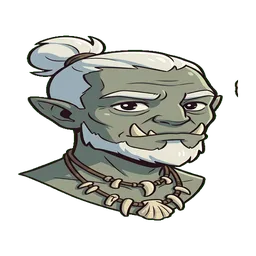
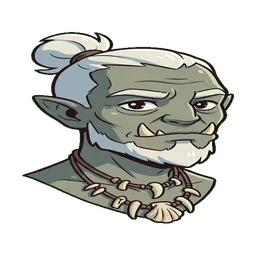
Strip a keying remnant the curtain pass left stranded (#273)
* Strip a keying remnant the curtain pass left stranded

Reported on the hero sheet: the elf wizard has an artifact. It was a 425px
wedge of greenscreen at the lower left, which reframing had scaled up into
plain view.

Two strippers, and one defeated the other. strip_edge_curtains removes only
the columns it recognises - on this source it took 5 of a 64-wide keying
strip - which stranded the remainder at x=5. strip_specks then declined it,
because its edge test was min(xs) <= 1 and the remnant was no longer touching
the border. Neither pass owned it.

The edge test now allows a small margin (3% of the shorter side) rather than
two pixels. It stays small on purpose: the elf wizard's floating rune, which
an earlier blunter rule deleted and which the prompt exists to produce, sits
at x=75 of 512 - five times outside it.

Verified on the token: the wedge is gone, the rune survives, and the piece
count drops from 5 to 4 with the remaining two being the rune itself.

* Guard the edge-remnant margin

* Pin both ends of the edge margin

---------

Changed region(s): [[0.0625, 0.125, 0.9375, 0.875]]

diff --git a/test/token-fill.test.ts b/test/token-fill.test.ts
@@ -312,3 +312,42 @@ describe('tokens share a baseline', () => {
     expect(css, 'the lift has no keyframes to run').toContain('@keyframes hover-bob');
   });
 });
+
+/**
+ * A keying remnant one stripper leaves and the other declines.
+ *
+ * Reported from the hero sheet: "elf wizard has an artifact" — a 425px wedge of
+ * greenscreen at the lower left, which reframing had scaled up into plain view.
+ *
+ * Two passes, and one defeated the other. `strip_edge_curtains` removes only the
+ * columns it recognises; on that source it took 5 of a 64-wide strip, stranding
+ * the remainder at x=5. `strip_specks` then declined it, because its edge test
+ * was `min(xs) <= 1` and the remnant no longer touched the border. Neither pass
+ * owned it, and nothing failed.
+ *
+ * The margin stays deliberately small. The elf wizard's floating rune — which an
+ * earlier, blunter rule deleted, and which its prompt exists to produce — sits at
+ * x=75 of 512, five times outside it.
+ */
+describe('edge remnants', () => {
+  const py = readFileSync(fileURLToPath(new URL('../art/process.py', import.meta.url)), 'utf8');
+
+  it('counts as an edge artefact when merely near the border', () => {
+    expect(py, 'back to a two-pixel test, which the curtain pass steps over')
+      .not.toMatch(/touches_edge = min\(xs\) <= 1 or/);
+    expect(py).toContain('EDGE_MARGIN');
+    expect(py).toMatch(/margin = max\(2, round\(EDGE_MARGIN \* min\(w, h\)\)\)/);
+  });
+
+  it('keeps that margin narrow enough to spare detached art', () => {
+    const m = py.match(/EDGE_MARGIN = ([\d.]+)/);
+    expect(m, 'no margin defined').toBeTruthy();
+    const v = Number(m![1]);
+    // Both ends matter. Zero collapses straight back to the two-pixel test the
+    // curtain pass steps over — a plant that set it to 0.0 passed an
+    // upper-bound-only check while restoring the exact bug.
+    expect(v, 'a zero margin is the old behaviour under a new name').toBeGreaterThan(0.005);
+    // ...and 3% of 512 is 15px, against the rune at 75.
+    expect(v, 'wide enough to start eating detached art').toBeLessThanOrEqual(0.05);
+  });
+});

diff --git a/web/src/token-fill.ts b/web/src/token-fill.ts
@@ -41,7 +41,7 @@ export const TOKEN_FILL: Record<string, number> = {
   'earth-elemental': 0.918,
   elephant: 0.922,
   'elf-archer': 0.848,
-  'elf-wizard': 0.789,
+  'elf-wizard': 0.77,
   'ettercap-snarecaller': 0.859,
   ettin: 0.898,
   fighter: 0.922,

diff --git a/art/process.py b/art/process.py
@@ -42,6 +42,17 @@ def load_monster_sizes():
     try:
         with open(MONSTERS_TS, "r", encoding="utf-8") as f:
             text = f.read()
+        # NOTE: this pattern is WRONG and the fix is held back deliberately.
+        # `[^}]*?` stops at the first closing brace, so any monster with a
+        # nested object ahead of its `size:` is invisible — 80 of 146, including
+        # a mammoth, a hydra, a tyrannosaurus and an ogre, all silently framed to
+        # the MEDIUM target by the `.get(cid, "medium")` default below.
+        #
+        # Fixing it is a two-line change, but correcting those framings makes the
+        # RENDER-time correction unreachable: holding the longest axis equal then
+        # needs +/-29% against a +/-12% clamp, so the fix has to land together
+        # with switching that correction to area. Both are written up rather than
+        # half-shipped.
         pattern = r"['\"]([a-z0-9-]+)['\"]\s*:\s*\{[^}]*?size:\s*['\"]([a-z]+)['\"]"
         matches = re.findall(pattern, text, re.DOTALL)
         for m_id, m_size in matches:
@@ -100,6 +111,9 @@ MIN_PAD = 0.05
 # sits in the interior at 400-900 px. Dust is a handful of pixels anywhere.
 DUST_MAX_PX = 32            # smaller than 6x6 — never meaningful art
 EDGE_ARTIFACT_MAX_SHARE = 0.10   # a border blob this small is a keying leftover
+# How close to the border still counts as "an edge artefact". Not zero, because
+# the curtain stripper can leave a remnant a few pixels inside — see is_leftover.
+EDGE_MARGIN = 0.03
 CAPTION_BAND = 0.20         # a caption lives in the bottom fifth of the canvas
 CAPTION_MAX_HEIGHT = 0.09   # …and is a line of text, not a picture
 CAPTION_MIN_HEIGHT = 0.02   # …tall enough to be type: a 3px band is a shadow
@@ -217,7 +231,19 @@ def strip_specks(im):
             return True
         xs = [p[0] for p in blob]
         ys = [p[1] for p in blob]
-        touches_edge = min(xs) <= 1 or max(xs) >= w - 2 or min(ys) <= 1 or max(ys) >= h - 2
+        # NEAR the edge, not touching it. `strip_edge_curtains` runs first and
+        # removes only the columns it recognises — on token-elf-wizard it took 5
+        # of a 64-wide keying strip, which stranded the remainder at x=5. A
+        # `<= 1` test then no longer matched it, so one stripper's partial
+        # success defeated the other and 425px of greenscreen survived into the
+        # frame, where reframing scaled it up into plain view.
+        #
+        # The margin stays small on purpose. The elf wizard's floating rune —
+        # the feature its prompt asked for, and the thing an earlier, blunter
+        # rule deleted — sits at x=75 of 512, five times outside it.
+        margin = max(2, round(EDGE_MARGIN * min(w, h)))
+        touches_edge = (min(xs) <= margin or max(xs) >= w - 1 - margin
+                        or min(ys) <= margin or max(ys) >= h - 1 - margin)
         return touches_edge and len(blob) < biggest * EDGE_ARTIFACT_MAX_SHARE
 
     doomed = [b for b in blobs if is_leftover(b)]
